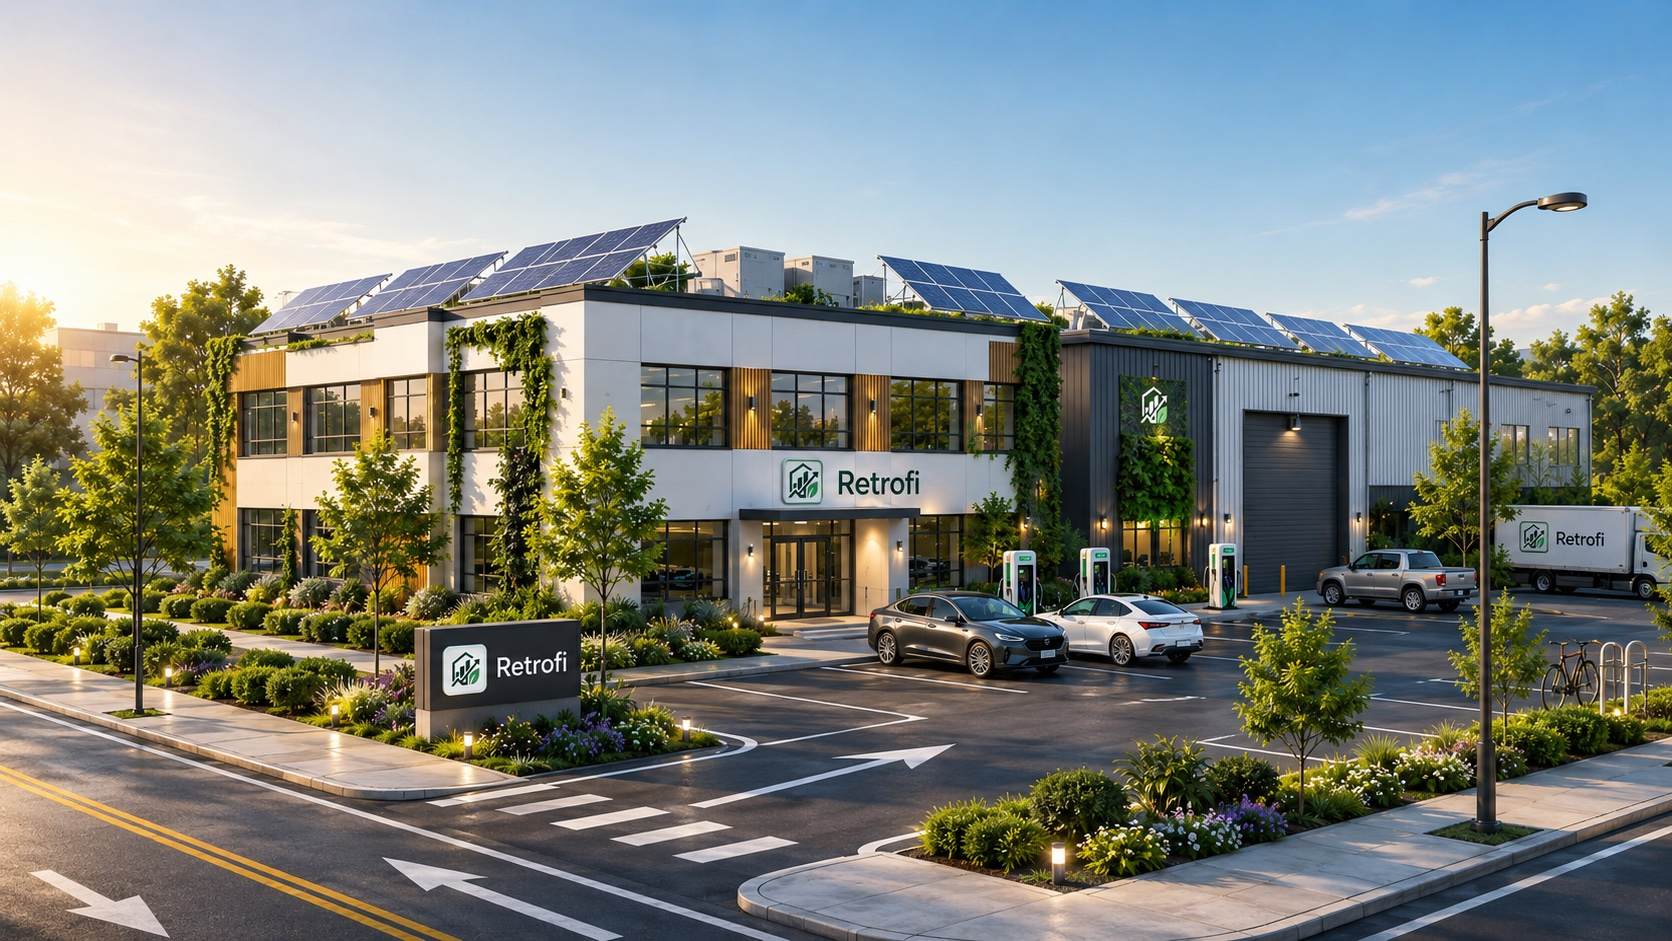
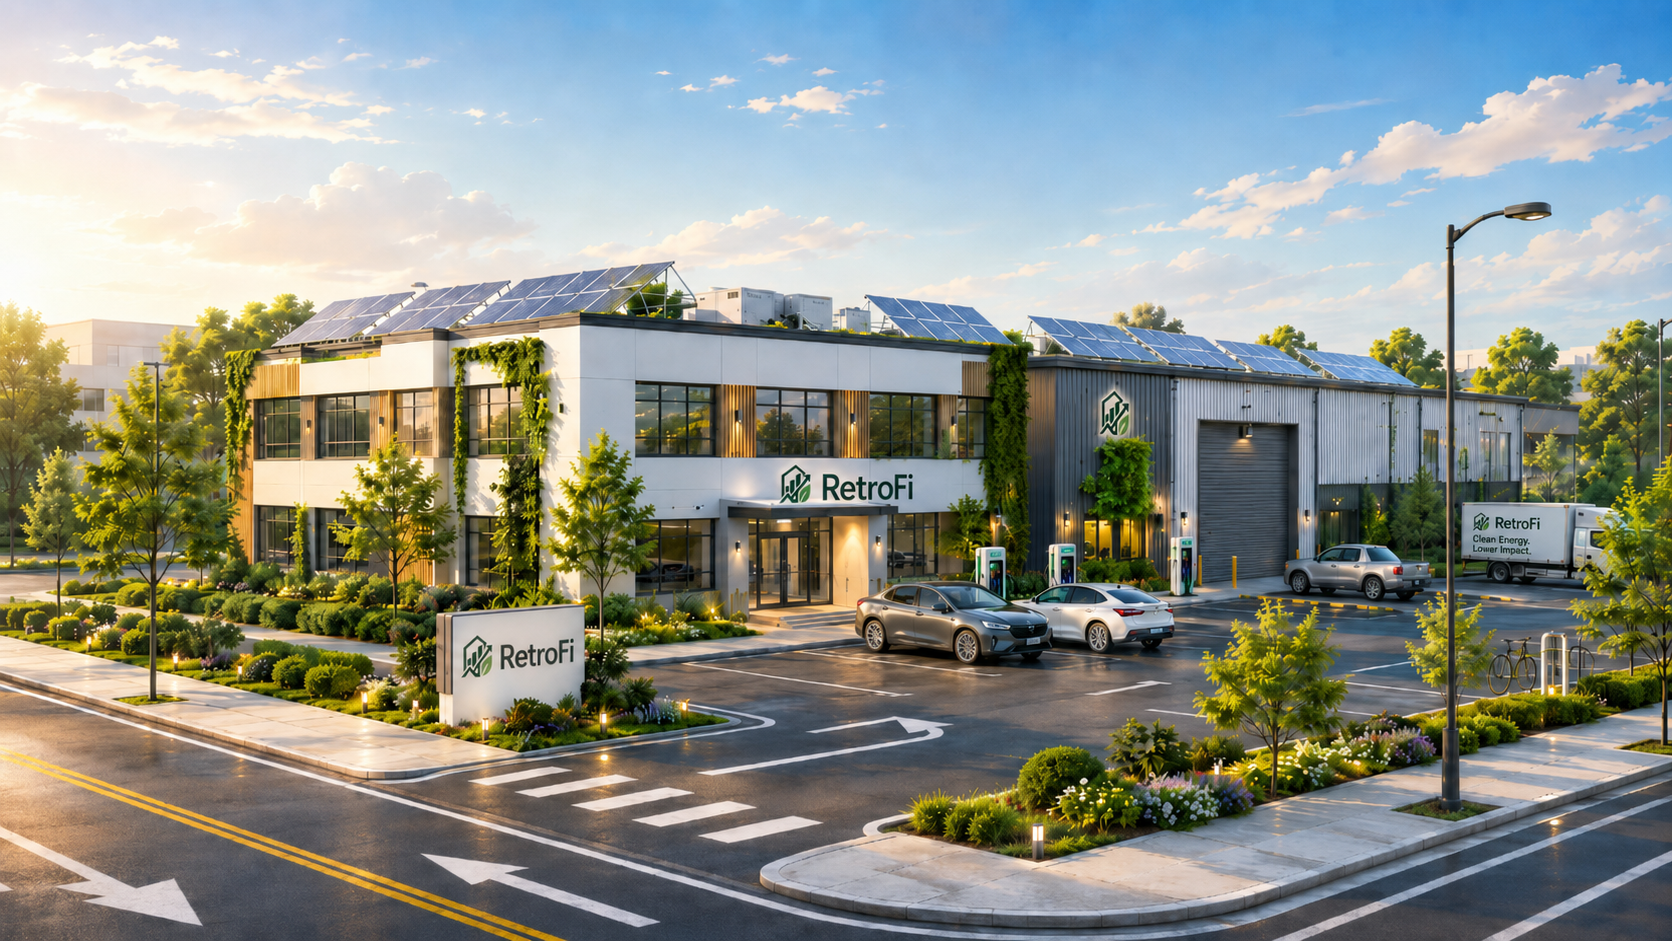
Update How It Works step 7 image

diff --git a/AI_CHANGELOG.md b/AI_CHANGELOG.md
@@ -1,5 +1,9 @@
 # AI Changelog
 
+## 2026-07-03 - Codex (GPT-5) update how it works step 7 image
+
+- Replaced the final How It Works transformation frame with the newly provided sunny sustainable business image.
+
 ## 2026-07-02 - Codex (GPT-5) user preview sidebar collapse control
 
 - Added a top-of-sidebar collapse arrow to the `/user-preview` navigation.
@@ -25,6 +29,11 @@
 
 - Added product TODOs to seed realistic synthetic tax documents into test cases and later build tax document ingestion plus tax form assembly.
 - Clarified that future tax document extraction should preserve source confidence and require user/admin confirmation before tax estimates are trusted.
+=======
+## 2026-07-03 - Codex (GPT-5) update how it works step 7 image
+
+- Replaced the final How It Works transformation frame with the newly provided sunny sustainable business image.
+>>>>>>> 4f2444d (Update How It Works step 7 image)
 
 ## 2026-07-02 - Codex (GPT-5) ApplicationProfile first-10 production import
 
